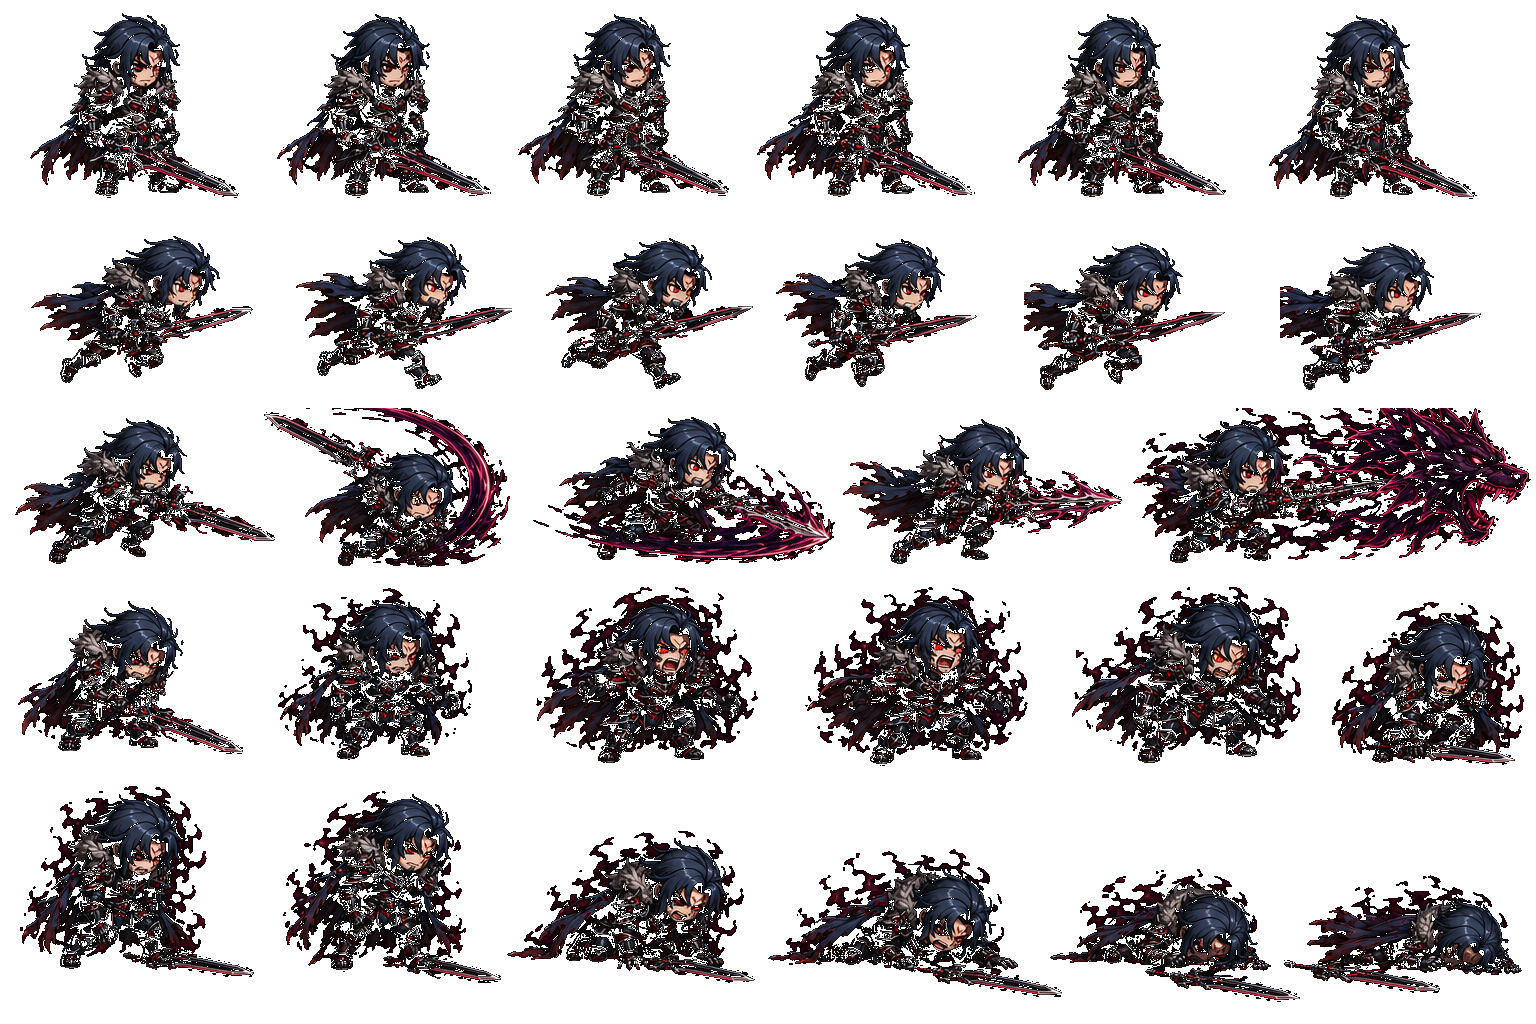
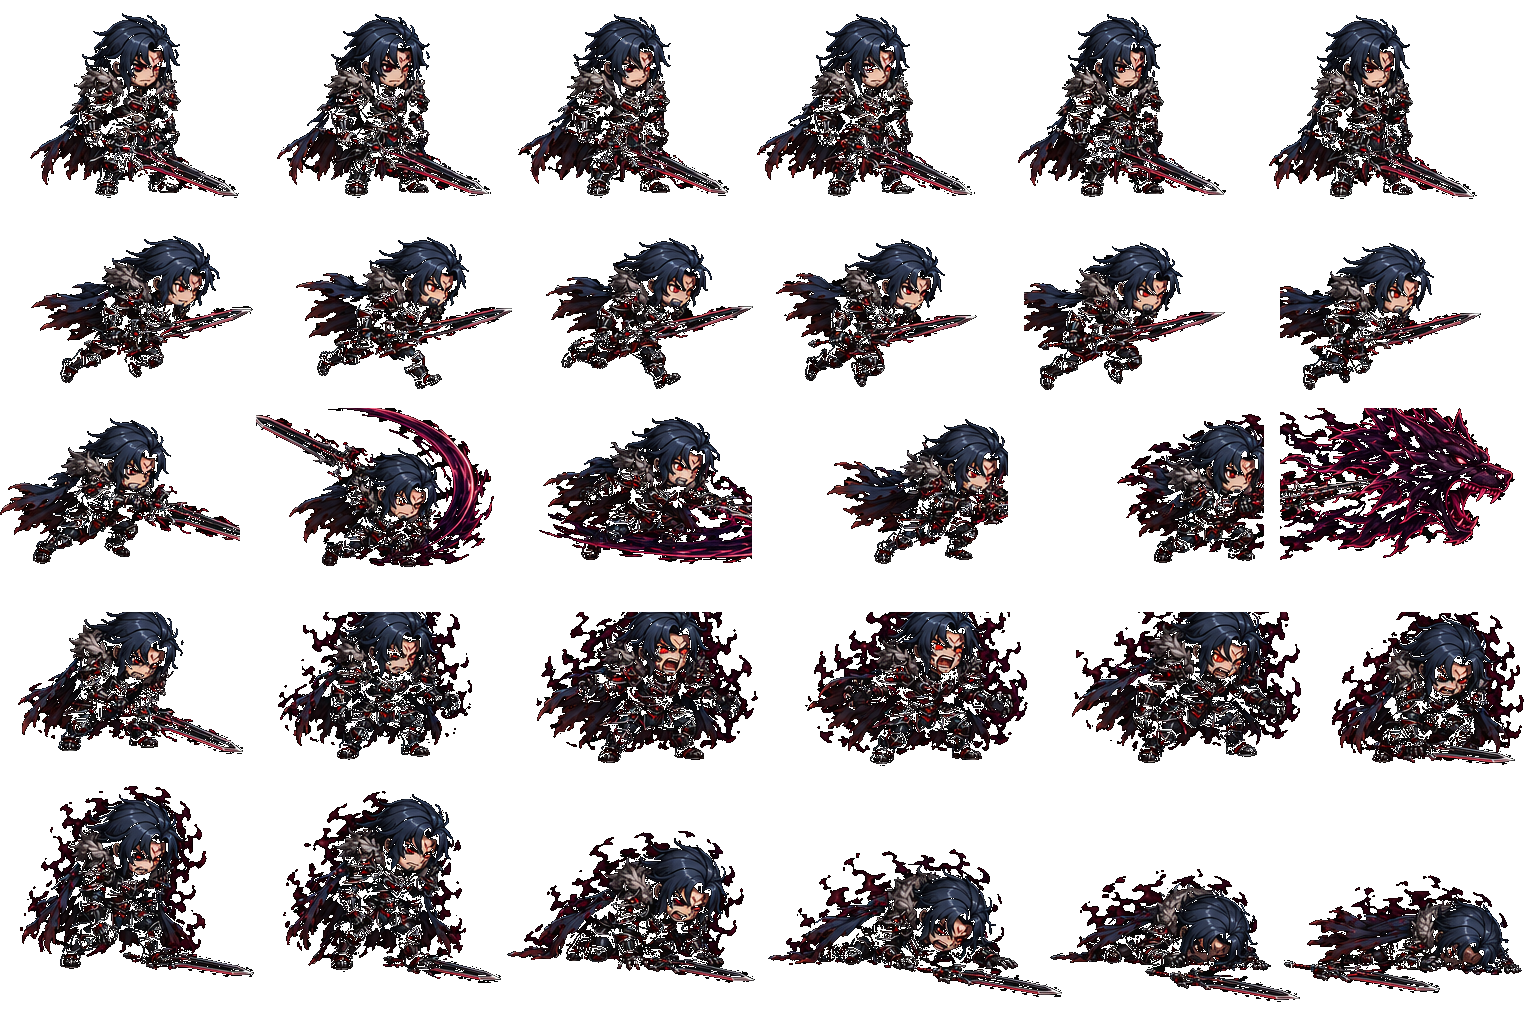
보스 공격간격수정3

Changed region(s): [[0.0, 0.375, 1.0, 0.625]]

diff --git a/js/enemy.js b/js/enemy.js
@@ -55,7 +55,7 @@ const KARON_HUMAN_SPRITE = {
   frameW: 256,
   frameH: 204,
   rows: { idle: 0, walk: 1, attack: 2, death: 4 },
-  frames: { idle: 6, walk: 6, attack: 6, death: 6 },
+  frames: { idle: 6, walk: 6, attack: 5, death: 6 },
   fps: { idle: 6, walk: 8, attack: 10, death: 7 },
   drawW: 204,
   drawH: 164,
@@ -68,7 +68,7 @@ const KARON_HUMAN_SPRITE = {
   drawOffsets: {
     idle: { x: 0, y: 0 },
     walk: { x: 0, y: 0 },
-    attack: { x: 0, y: 0 },
+    attack: { x: 13, y: 24 },
     death: { x: 0, y: 0 },
   },
 };
